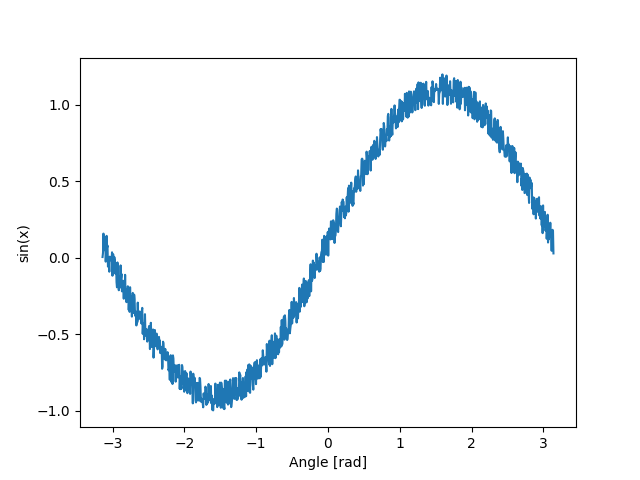
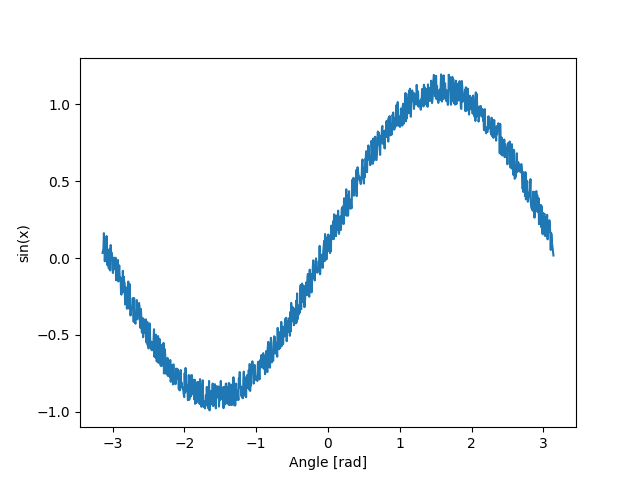
non-linear model

diff --git a/model.py b/model.py
@@ -10,6 +10,22 @@ class ModelA(nn.Module):
     def forward(self, x: torch.Tensor):
         """Forward function for the model.
         
-        :param x: The input tensor. Expected shape (B, 3, H, W).
+        :param x: The input tensor.
         """
         return self.lin(x)
+
+class ModelB(nn.Module):
+    def __init__(self):
+        super(ModelA, self).__init__()
+        self.lin1 = nn.Linear(2, 128)
+        self.lin2 = nn.Linear(128, 1)
+
+    def forward(self, x: torch.Tensor):
+        """Forward function for the model.
+        
+        :param x: The input tensor.
+        """
+        x = self.lin1(x)
+        x = F.relu(x)
+        x = self.lin2(x)
+        return x

diff --git a/main.py b/main.py
@@ -33,7 +33,7 @@ BATCH_SIZE = 128
 EPOCHS = 100
 
 # intialize a model
-model = ModelA()
+model = ModelB()
 
 # define the loss function
 loss_fn = torch.nn.MSELoss()
